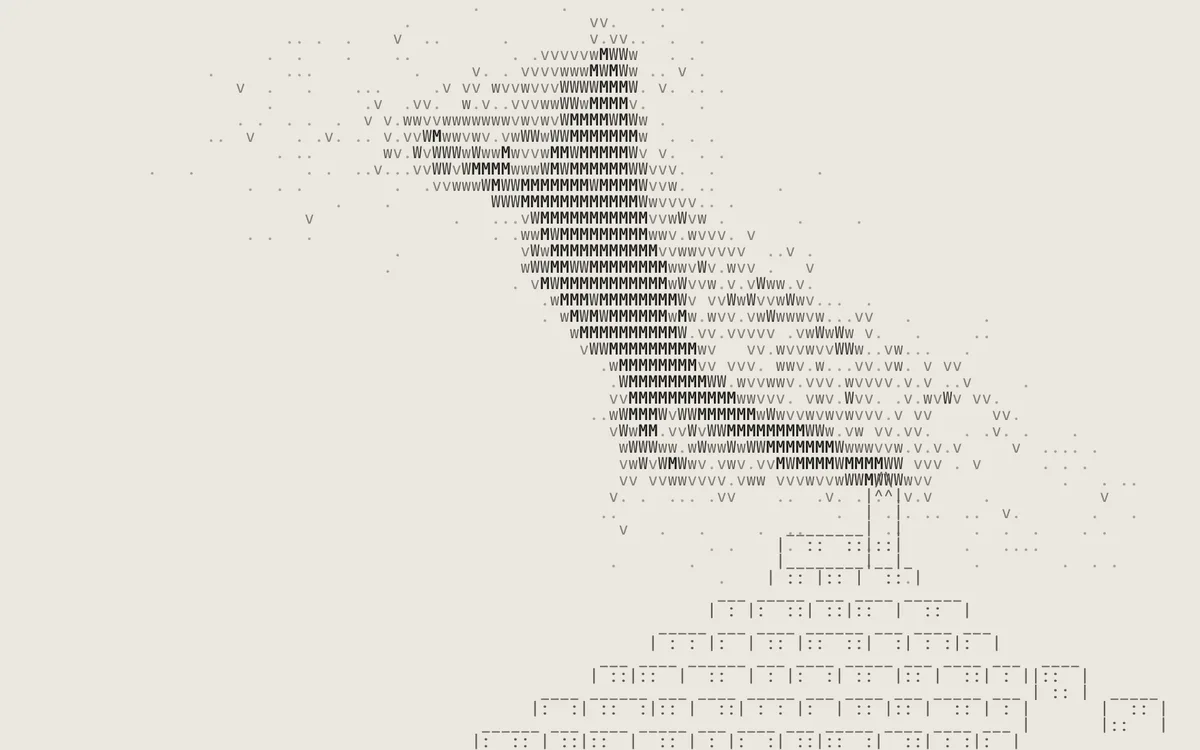
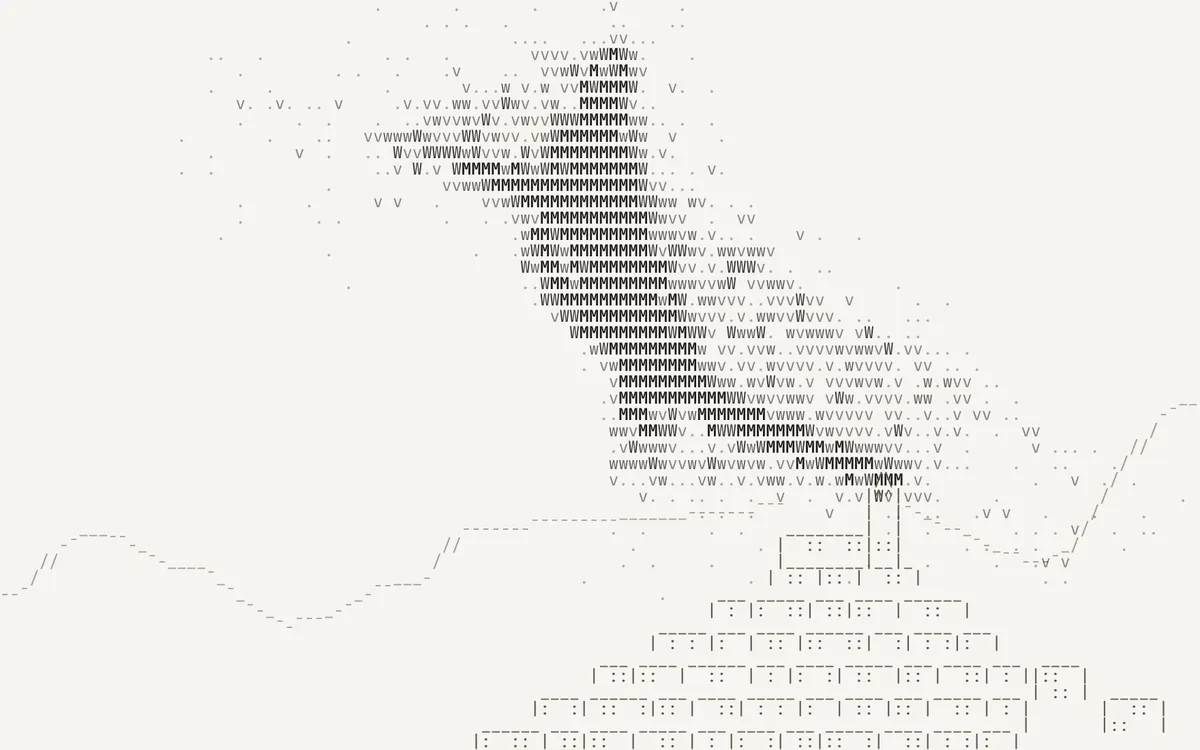
Murmuration : des collines derrière le village (une ligne douce, les oiseaux s'y posent aussi) ; sur l'accueil, la carte sous wwwetzel journey, arrivant après elle, avec une capture sur le vrai fond de la page

diff --git a/src/features/murmuration/main.ts b/src/features/murmuration/main.ts
@@ -148,11 +148,71 @@ function resize() {
   villageRow = rows - VILLAGE_LINES.length
   village.style.left = `${villageCol * cellW}px`
   village.style.top = `${skyTop + villageRow * cellH}px`
+  drawHills()
   perches()
 }
 
-// ——— Où se poser : sur les toits du village (les « _ » qui n'ont rien au-dessus d'eux) et la pointe du clocher,
-// et, pour ceux qui n'y trouvent pas de place, sur le bas de la page, à gauche du village ———
+// ——— Les collines derrière le village (d'après la photo) : à gauche, des collines basses et rondes, une bosse
+// puis un creux ; elles remontent vers le village, passent juste sous le clocher, redescendent à droite, puis une
+// crête plus lointaine remonte au bord. Une seule ligne, en gris clair, cachée par le village là où il est devant.
+const hills = document.createElement('pre')
+hills.className = 'mm-hills'
+sky.prepend(hills)
+// la crête : pour chaque colonne, sa ligne dans le ciel (ou -1 là où le village la cache) et son signe
+let ridgeRow = new Int16Array(0)
+let ridgeSign: string[] = []
+function drawHills() {
+  const H = VILLAGE_LINES.length
+  const church = villageCol + VILLAGE_LINES[0].indexOf('/')
+  // les points de la crête : (colonne, hauteur au-dessus du bas de la page, en lignes)
+  const points: [number, number][] = [
+    [0, 0.55 * H],
+    [cols * 0.07, 0.78 * H],
+    [cols * 0.15, 0.66 * H],
+    [cols * 0.24, 0.45 * H],
+    [cols * 0.34, 0.6 * H],
+    [villageCol, 0.8 * H],
+    [church, 0.88 * H],
+    [church + (cols - church) * 0.5, 0.68 * H],
+    [cols - 1, 1.25 * H],
+  ].sort((a, b) => a[0] - b[0]) as [number, number][]
+  // (entre deux points, une courbe douce)
+  const height = (c: number) => {
+    let k = 0
+    while (k < points.length - 2 && c > points[k + 1][0]) k++
+    const [x0, y0] = points[k]
+    const [x1, y1] = points[k + 1]
+    const f = x1 === x0 ? 0 : Math.min(1, Math.max(0, (c - x0) / (x1 - x0)))
+    return y0 + (y1 - y0) * (1 - Math.cos(f * Math.PI)) / 2
+  }
+  // le haut du village, colonne par colonne (la crête ne passe que derrière lui, au-dessus de ses toits)
+  const villageTop = (c: number) => {
+    const x = c - villageCol
+    if (x < 0 || x >= VILLAGE_W) return rows
+    const y = VILLAGE_LINES.findIndex((line) => (line[x] ?? ' ') !== ' ')
+    return y < 0 ? rows : villageRow + y
+  }
+  // la crête passe en bas, au milieu ou en haut de sa case : _ - ¯ (une ligne continue, sans marches) ; là où la
+  // pente est raide, / ou \\
+  ridgeRow = new Int16Array(cols)
+  ridgeSign = []
+  const grid = Array.from({ length: rows }, () => Array<string>(cols).fill(' '))
+  for (let c = 0; c < cols; c++) {
+    const h = height(c)
+    const r = rows - 1 - Math.floor(h)
+    const frac = h - Math.floor(h)
+    const slope = height(c + 0.5) - height(c - 0.5)
+    const sign = slope > 0.6 ? '/' : slope < -0.6 ? '\\' : frac < 0.34 ? '_' : frac < 0.67 ? '-' : '¯'
+    const hidden = r >= villageTop(c) - 1 || r < 0
+    ridgeRow[c] = hidden ? -1 : r
+    ridgeSign[c] = sign
+    if (!hidden) grid[r][c] = sign
+  }
+  hills.textContent = grid.map((line) => line.join('')).join('\n')
+}
+
+// ——— Où se poser : sur les toits du village et la pointe du clocher, sur la crête des collines, et sur le bas
+// de la page, à gauche du village ———
 let perched = new Uint16Array(0)
 // la place de chaque oiseau : sa case dans le ciel (colonne, ligne)
 const perchCol = new Int16Array(COUNT)
@@ -191,7 +251,13 @@ function perches() {
   // les oiseaux se répartissent sur toutes les places, autant sur chacune ; chacun va vers une place du même côté
   // que lui dans le nuage (de gauche à droite)
   const order = Array.from({ length: COUNT }, (_, i) => i).sort((a, b) => u[a] - u[b])
-  const places = [...ground, ...roofs].sort((a, b) => a[0] - b[0])
+  // la crête des collines : sur un « _ », dans la même case ; ailleurs (plus haut dans la case, ou en pente),
+  // juste au-dessus
+  const ridge: [number, number][] = []
+  for (let c = 0; c < cols; c++) {
+    if (ridgeRow[c] >= 0) ridge.push([c, ridgeRow[c] - (ridgeSign[c] === '_' ? 0 : 1)])
+  }
+  const places = [...ground, ...roofs, ...ridge].sort((a, b) => a[0] - b[0])
   order.forEach((bird, k) => {
     const place = places[Math.floor((k / COUNT) * places.length)]
     perchCol[bird] = place[0]

diff --git a/src/app/timeline.ts b/src/app/timeline.ts
@@ -9,15 +9,18 @@ import { projects } from '@/content/content'
 // de l'écran : coupées, elles disent qu'il y a une suite, on fait défiler. En faisant défiler, elles se rangent
 // en ligne.
 // La grille a toujours cinq colonnes : les cinq premiers projets sur la première ligne ; les suivants dessous, sur
-// une seconde ligne, à partir de la première colonne (ils arrivent après que la première ligne s'est rangée).
+// une seconde ligne, en partant de la dernière colonne (ils arrivent après que la première ligne s'est rangée).
 export const COLS = 5
 export const ROWS = Math.ceil(projects.length / COLS)
-export const cardPlace = (i: number) => ({ col: (i % COLS) + 1, row: Math.floor(i / COLS) })
+export const cardPlace = (i: number) => ({
+  col: i < COLS ? i + 1 : COLS - (i % COLS),
+  row: Math.floor(i / COLS),
+})
 const MID = (COLS - 1) / 2
 const V_TOP = 14 // la carte de tête
 const V_STEP = 34 // un cran plus bas à chaque pas vers un bord
 const FIRST_ROW = projects.slice(0, COLS).map((_, i) => V_TOP + Math.abs(i - MID) * V_STEP)
-const NEXT_ROWS_GAP = 40 // la seconde ligne : un peu après la dernière carte de la première
+const NEXT_ROWS_GAP = 70 // la seconde ligne : nettement après la dernière carte de la première, une fois rangée
 const STARTS = projects.map((_, i) =>
   i < COLS ? FIRST_ROW[i] : Math.max(...FIRST_ROW) + NEXT_ROWS_GAP + (i - COLS) * 20,
 )

diff --git a/src/features/murmuration/murmuration.css b/src/features/murmuration/murmuration.css
@@ -50,6 +50,14 @@ body {
 .mm-l4 {
   font-weight: 700;
 }
+/* les collines derrière le village : une ligne de crête, en gris plus clair que le village */
+.mm-hills {
+  position: absolute;
+  inset: 0;
+  font: inherit;
+  color: var(--muted);
+  opacity: 0.55;
+}
 /* le village, en gris, en bas à droite, sur la même grille que le ciel (placé par main.ts) */
 .mm-village {
   position: absolute;
